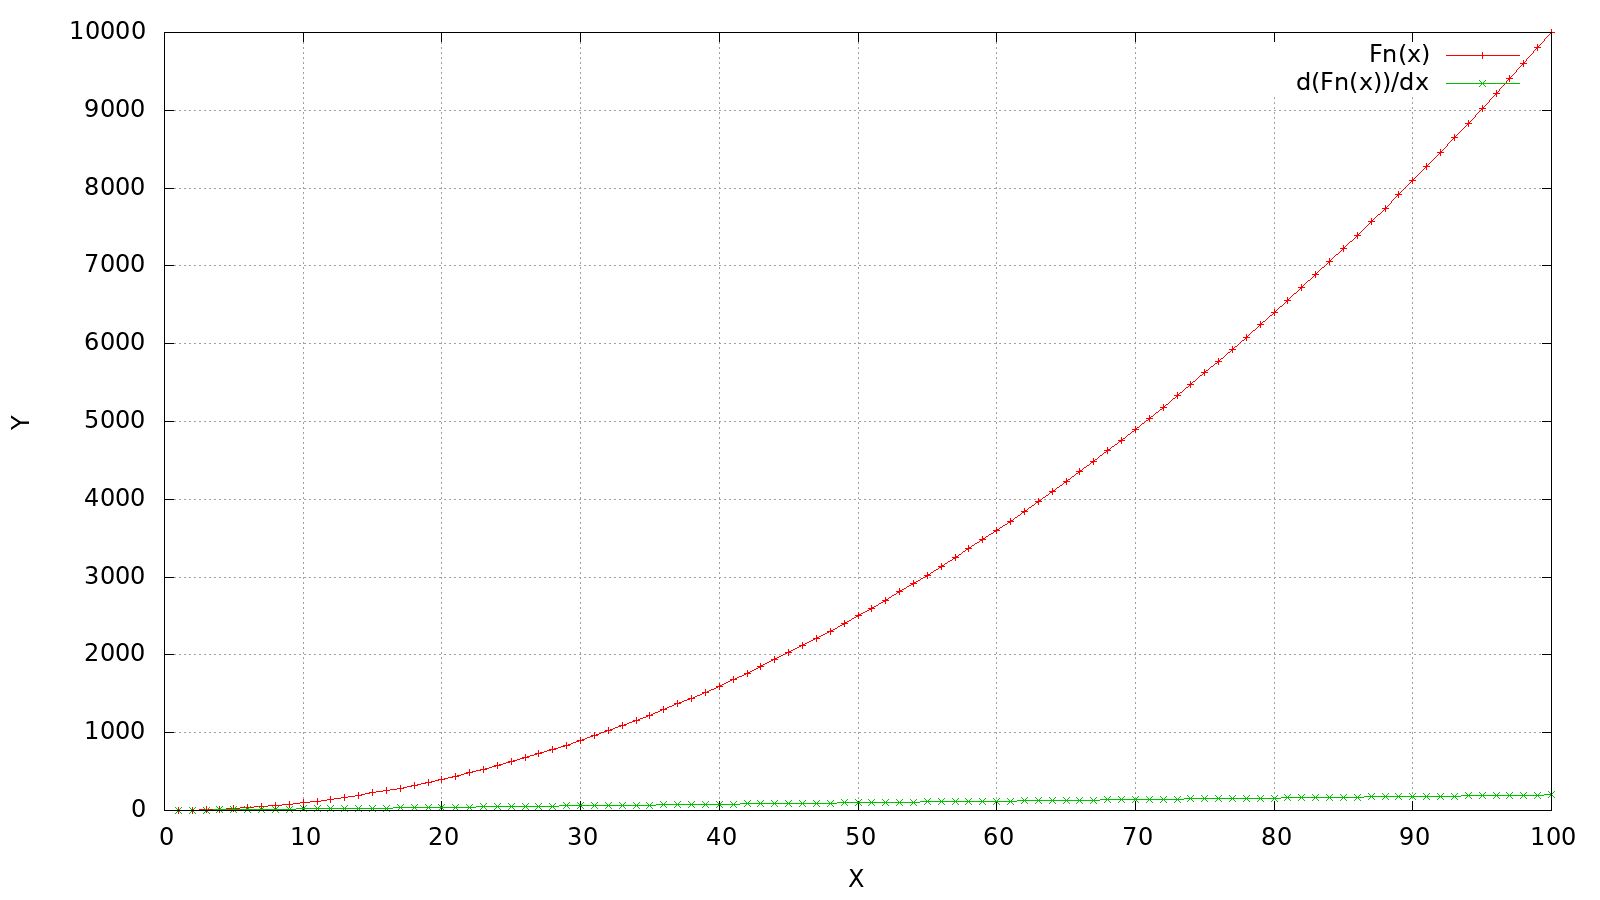
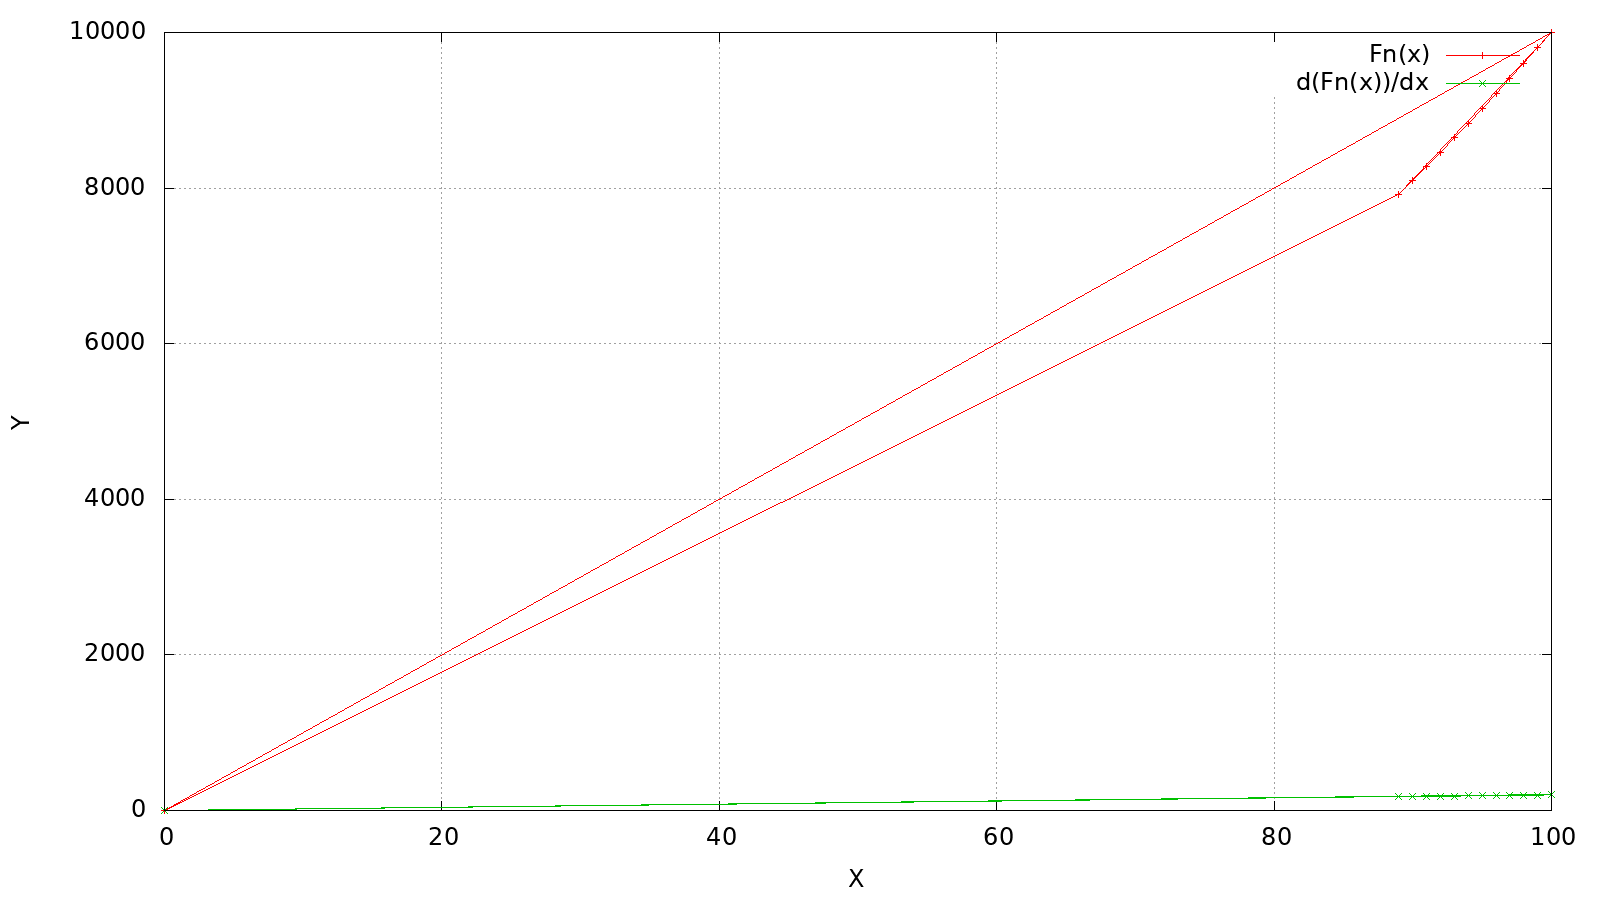
corrected code and graph

diff --git a/p2_mpi.c b/p2_mpi.c
@@ -46,14 +46,14 @@ int main (int argc, char *argv[])
 
 	for(i=0; i<numproc; i++)
 	{
-		if(rank < NGRID%numproc)
+		if(i < NGRID%numproc)
         	{
-            		start = 1 + (NGRID/numproc)*rank + rank;
+            		start = 1 + (NGRID/numproc)*i + i;
             		end = start + (NGRID/numproc);
         	}
         	else
         	{
-            		start = 1 + (NGRID/numproc)*rank +(NGRID%numproc);
+            		start = 1 + (NGRID/numproc)*i +(NGRID%numproc);
             		end = start + (NGRID/numproc) -1;
         	}
 	
